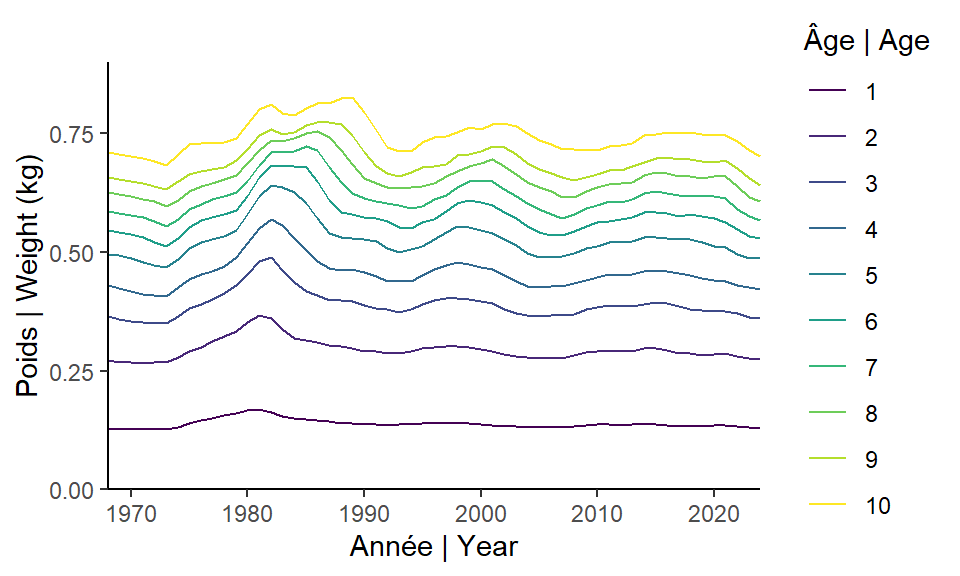
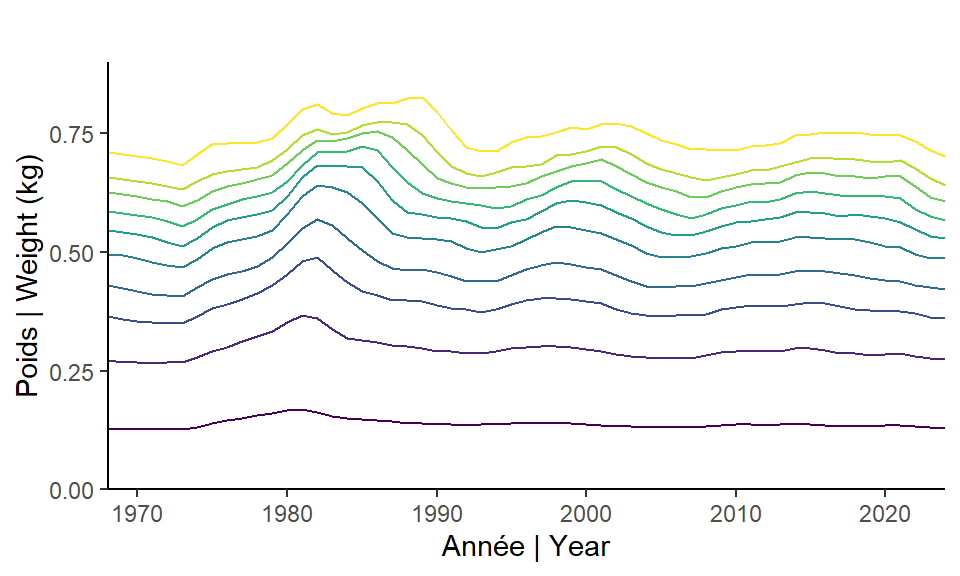
preassessment

diff --git a/1.0_waa/2024/docs/1.0_waa.html b/1.0_waa/2024/docs/1.0_waa.html
@@ -10,7 +10,7 @@
 
 
 
-<meta name="date" content="2024-12-17" />
+<meta name="date" content="2025-01-31" />
 
 <title>Start</title>
 
@@ -362,7 +362,7 @@ div.tocify {
 
 
 <h1 class="title toc-ignore">Start</h1>
-<h4 class="date">2024-12-17</h4>
+<h4 class="date">2025-01-31</h4>
 
 </div>
 
@@ -517,7 +517,7 @@ number="4">
 minimally need?</h1>
 <div id="simulation" class="section level2" number="4.1">
 <h2><span class="header-section-number">4.1</span> Simulation</h2>
-<pre class="r"><code>newm &lt;- T
+<pre class="r"><code>newm &lt;- F
 if(!newm){
     df &lt;- file.info(list.files(&quot;../../Rdata/&quot;, full.names = T,pattern=&quot;sims_&quot;))
     load(rownames(df)[which.max(df$mtime)])
@@ -764,7 +764,7 @@ save(waa.fit,file=paste0(&quot;../../Rdata/fit.armatrix/&quot;,this.year,&quot;b
 plots</h2>
 <div id="waa-1" class="section level3" number="7.2.1">
 <h3><span class="header-section-number">7.2.1</span> waa</h3>
-<pre class="r"><code>p&lt;- armatrix.waa(waa.fit)+scale_color_viridis_d()+scale_y_continuous(limits=c(0,0.9),expand=c(0,0))
+<pre class="r"><code>p&lt;- armatrix.waa(waa.fit)+scale_color_viridis_d(guide=&quot;none&quot;)+scale_y_continuous(limits=c(0,0.9),expand=c(0,0))
 
 p + labs(x=&quot;Année | Year&quot;, y= &quot;Poids | Weight (kg)&quot;, col=&quot;Âge | Age&quot;)</code></pre>
 <p><img src="1.0_waa_files/figure-html/waa_final-1.png" width="480" style="display: block; margin: auto;" /></p>
